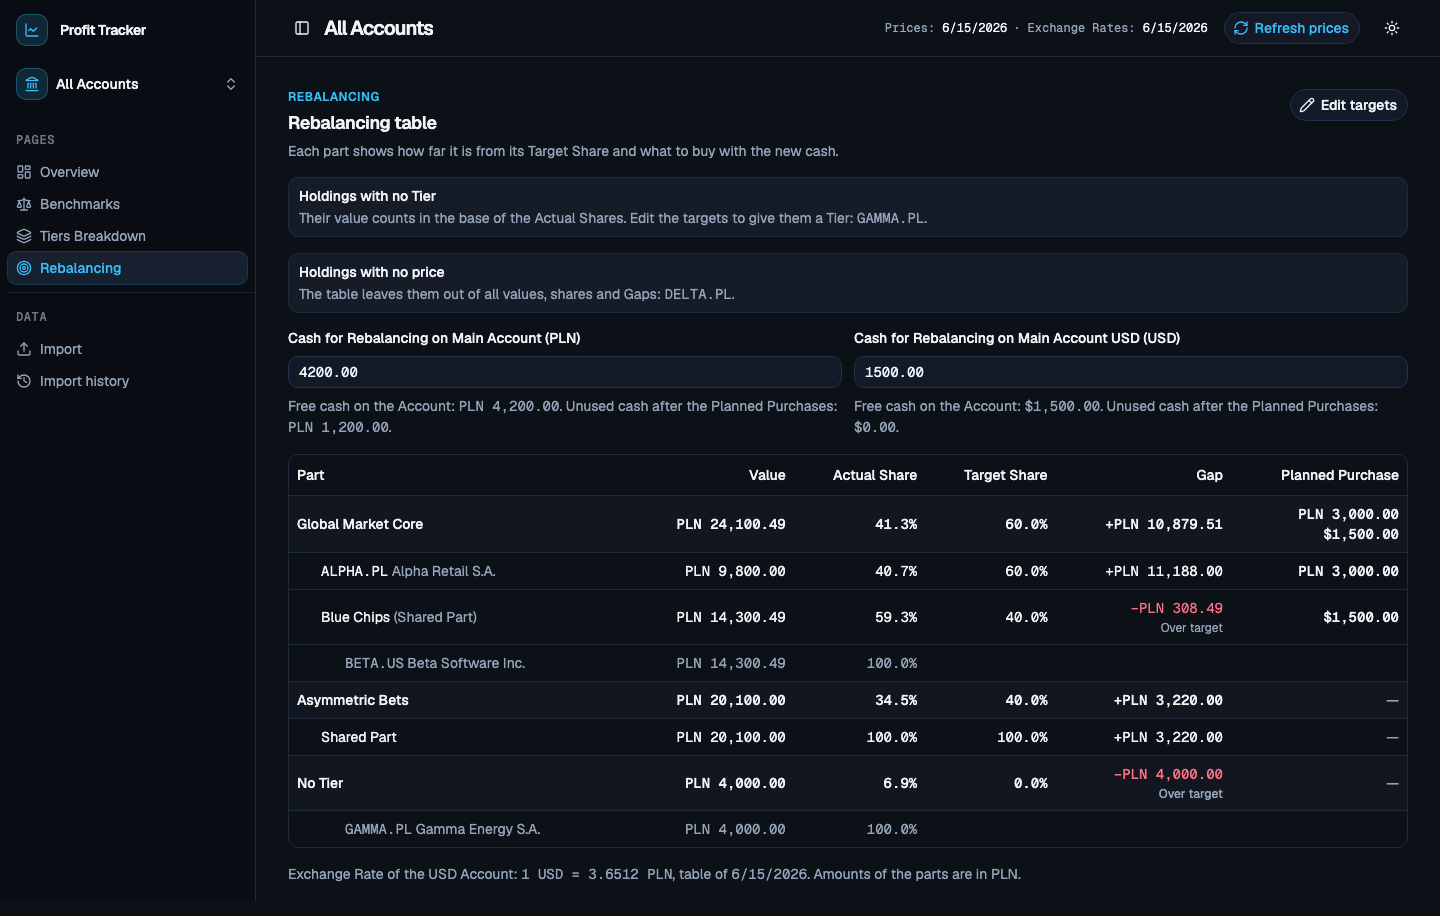
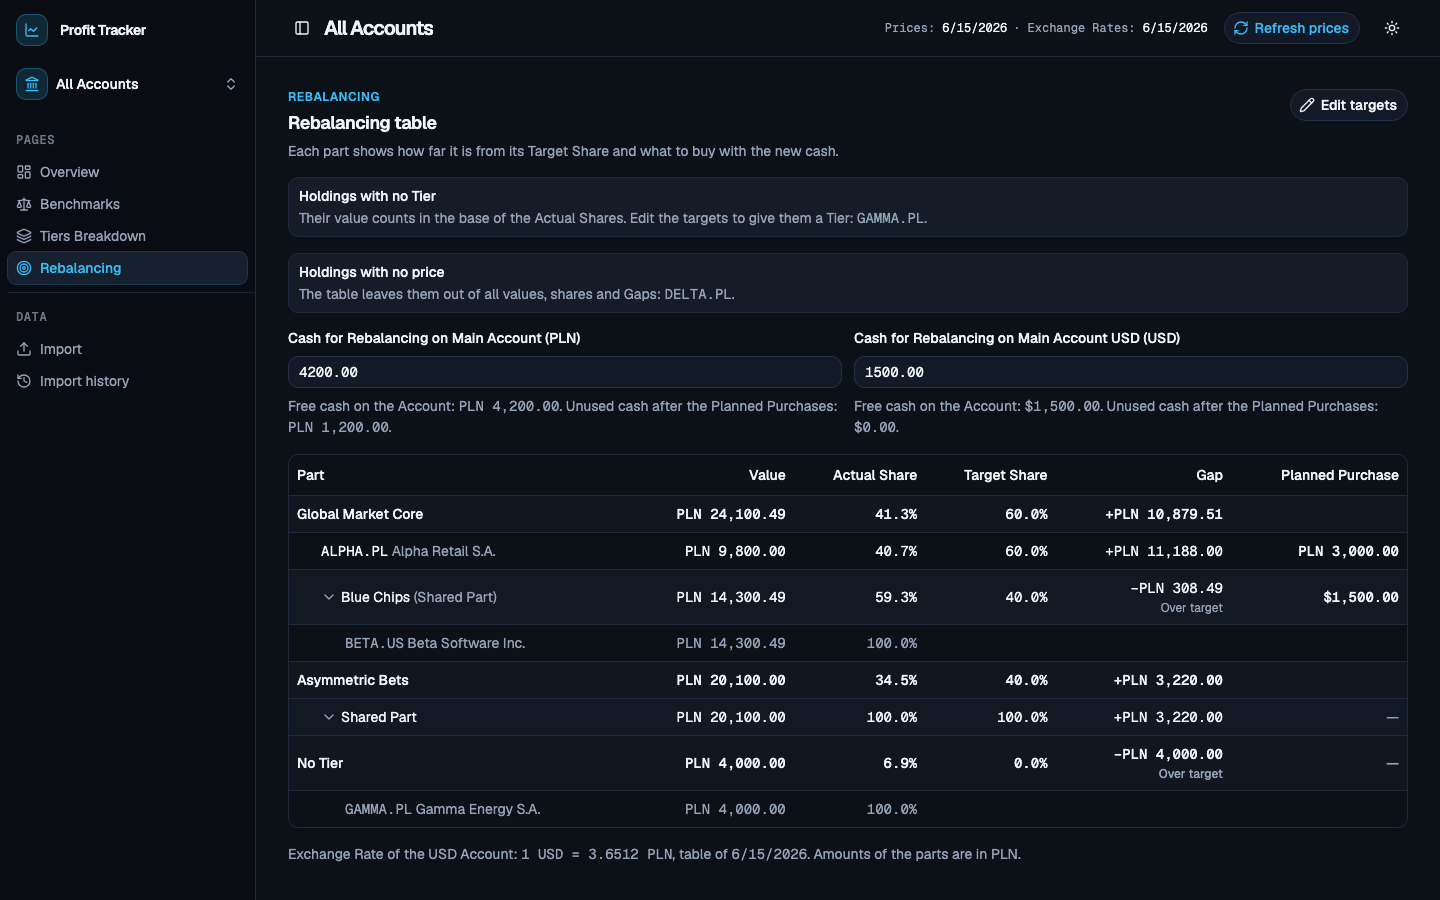
Hide the Planned Purchases on the Tier rows
Show the negative Gap in the normal text color.
Let each Shared Part collapse its Instruments.

Refs #105

diff --git a/frontend/src/components/rebalancing-table.tsx b/frontend/src/components/rebalancing-table.tsx
@@ -1,4 +1,5 @@
-import { Fragment } from "react"
+import { ChevronDownIcon, ChevronRightIcon } from "lucide-react"
+import { Fragment, useState } from "react"
 
 import { Badge } from "@/components/ui/badge"
 import {
@@ -15,12 +16,20 @@ import type {
   RebalancingPart,
   RebalancingPurchase,
 } from "@/lib/api"
-import { amountSign, formatAmount, formatShare, signColour } from "@/lib/format"
+import { amountSign, formatAmount, formatShare } from "@/lib/format"
 import { cn } from "@/lib/utils"
 
 // RebalancingTable shows each Tier with its Instrument Targets and its Shared Part, and the "No Tier" group.
 // The amounts of a part are in PLN. Each Planned Purchase is in the currency of its Account.
 export function RebalancingTable({ data }: { data: Rebalancing }) {
+  // collapsed holds the order of each Tier whose Shared Part hides its Instruments.
+  const [collapsed, setCollapsed] = useState<ReadonlySet<number>>(new Set())
+  const toggle = (order: number) =>
+    setCollapsed((current) => {
+      const next = new Set(current)
+      if (!next.delete(order)) next.add(order)
+      return next
+    })
   return (
     <div className="min-w-0 overflow-x-auto rounded-lg border">
       <Table>
@@ -37,12 +46,7 @@ export function RebalancingTable({ data }: { data: Rebalancing }) {
         <TableBody>
           {data.tiers.map((tier) => (
             <Fragment key={tier.order}>
-              <PartRow
-                strong
-                label={tier.name}
-                part={tier}
-                purchases={tier.plannedPurchases}
-              />
+              <PartRow strong label={tier.name} part={tier} />
               {tier.instrumentTargets.map((target) => (
                 <PartRow
                   key={target.ticker}
@@ -63,7 +67,10 @@ export function RebalancingTable({ data }: { data: Rebalancing }) {
               <PartRow
                 indent
                 label={
-                  <>
+                  <SharedPartToggle
+                    open={!collapsed.has(tier.order)}
+                    onToggle={() => toggle(tier.order)}
+                  >
                     {tier.sharedPart.name || "Shared Part"}
                     {tier.sharedPart.name && (
                       <span className="text-muted-foreground">
@@ -71,14 +78,15 @@ export function RebalancingTable({ data }: { data: Rebalancing }) {
                         (Shared Part)
                       </span>
                     )}
-                  </>
+                  </SharedPartToggle>
                 }
                 part={tier.sharedPart}
                 purchases={[tier.sharedPart.plannedPurchase]}
               />
-              {tier.sharedPart.instruments.map((instrument) => (
-                <HoldingRow key={instrument.ticker} holding={instrument} />
-              ))}
+              {!collapsed.has(tier.order) &&
+                tier.sharedPart.instruments.map((instrument) => (
+                  <HoldingRow key={instrument.ticker} holding={instrument} />
+                ))}
             </Fragment>
           ))}
           {data.noTier && data.noTier.holdings.length > 0 && (
@@ -103,7 +111,8 @@ export function RebalancingTable({ data }: { data: Rebalancing }) {
 type PartRowProps = {
   label: React.ReactNode
   part: RebalancingPart
-  purchases: RebalancingPurchase[]
+  // purchases is missing for a Tier, which shows no Planned Purchase.
+  purchases?: RebalancingPurchase[]
   // strong marks a Tier or the "No Tier" group.
   strong?: boolean
   // indent marks a part inside a Tier.
@@ -130,7 +139,7 @@ function PartRow({ label, part, purchases, strong, indent }: PartRowProps) {
         <GapCell gap={part.gap} />
       </TableCell>
       <TableCell className="text-right">
-        <PurchaseCell purchases={purchases} />
+        {purchases && <PurchaseCell purchases={purchases} />}
       </TableCell>
     </TableRow>
   )
@@ -142,7 +151,7 @@ function GapCell({ gap }: { gap: string }) {
   if (sign === "negative") {
     return (
       <span className="flex flex-col items-end gap-0.5">
-        <span className={cn("num", signColour(sign))}>
+        <span className="num">
           {formatAmount(gap, "PLN", { signed: true })}
         </span>
         <span className="text-xs text-muted-foreground">Over target</span>
@@ -200,5 +209,29 @@ function NoValueBadge() {
     <Badge variant="outline" className="ml-2">
       No value
     </Badge>
+  )
+}
+
+// SharedPartToggle shows a chevron button that expands or collapses the Instruments of a Shared Part.
+function SharedPartToggle({
+  open,
+  onToggle,
+  children,
+}: {
+  open: boolean
+  onToggle: () => void
+  children: React.ReactNode
+}) {
+  const Chevron = open ? ChevronDownIcon : ChevronRightIcon
+  return (
+    <button
+      type="button"
+      aria-expanded={open}
+      onClick={onToggle}
+      className="flex items-start gap-1 rounded-sm text-left outline-none focus-visible:ring-2 focus-visible:ring-ring"
+    >
+      <Chevron className="mt-0.5 size-4 shrink-0 text-muted-foreground" />
+      <span>{children}</span>
+    </button>
   )
 }
